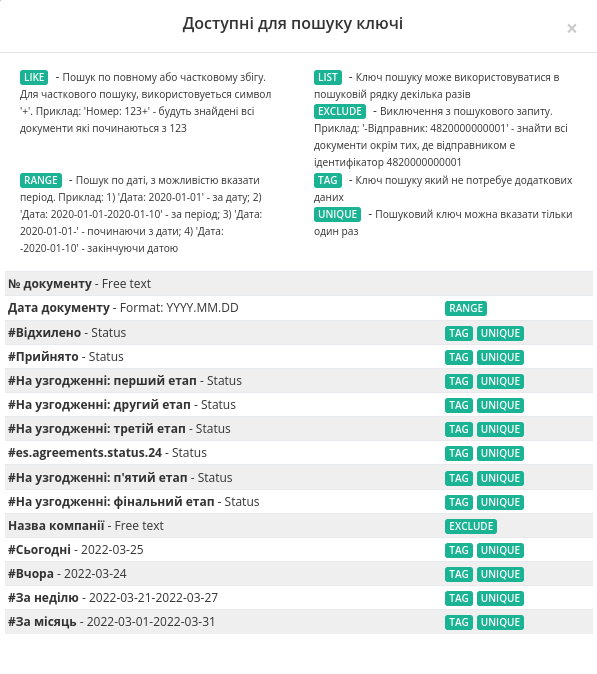
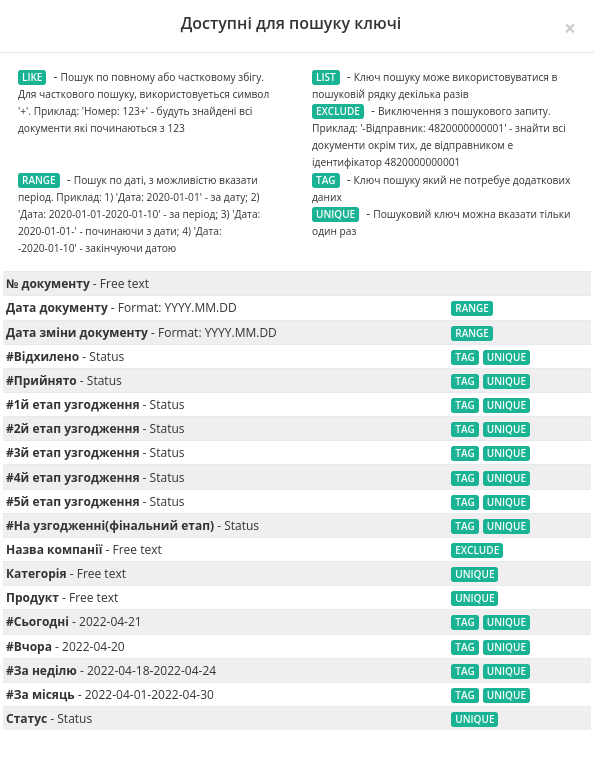
Commercial_search

diff --git a/docs/Commercial_offers/Instructions/Commercial_offers_merezha.rst b/docs/Commercial_offers/Instructions/Commercial_offers_merezha.rst
@@ -27,6 +27,8 @@
 
 .. |star| image:: pics_Commercial_offers/Commercial_offers_038.png
 
+.. |advserch| image:: pics_Commercial_offers/Commercial_offers_060.png
+
 .. role:: red
 
 .. role:: green
@@ -180,18 +182,26 @@
 **Пошук**
 ------------------------------
 
-Функціональне поле **"Пошуку"** використовує наступні Доступні для пошуку ключі:
+Пошук документів/позицій в сервісі **Комерційна пропозиція** виконується через рядок **"Пошуку"**:
+
+.. image:: pics_Commercial_offers/Commercial_offers_066.png
+   :align: center
+
+----------------------------------------------------------------------------------------------------
+
+1) Рядок пошуку можливо заповнити, обираючи **"Доступні для пошуку ключі"**:
 
 .. image:: pics_Commercial_offers/Commercial_offers_056.png
    :align: center
 
-В залежності від того, який журнал відкрито (**Документи** чи **Позиції**) ключі пошуку будуть відрізнятись:
+.. note::
+   В залежності від того, який журнал відкрито (**Документи** чи **Позиції**) ключі пошуку будуть відрізнятись:
 
-.. image:: pics_Commercial_offers/Commercial_offers_057.png
-   :width: 500
+   .. image:: pics_Commercial_offers/Commercial_offers_057.png
+      :width: 500
 
-.. image:: pics_Commercial_offers/Commercial_offers_058.png
-   :width: 500
+   .. image:: pics_Commercial_offers/Commercial_offers_058.png
+      :width: 500
 
 Можливо обрати параметр зі списку/підказки чи почати вводити пошукове значення (система автоматично вкаже на можливі параметри): 
 
@@ -205,6 +215,46 @@
 .. image:: pics_Commercial_offers/Commercial_offers_059.gif
    :align: center
 
+2) Також заповнити рядок пошуку можливо за допомогою набору фільтрів **"Розширеного пошуку"** (|advserch|):
+
+.. note::
+   В залежності від того, який журнал відкрито (**Документи** чи **Позиції**) меню пошуку буде відрізнятись:
+
+   .. image:: pics_Commercial_offers/Commercial_offers_061.png
+      :align: center
+
+            
+
+   .. image:: pics_Commercial_offers/Commercial_offers_062.png
+      :align: center
+
+Деякі поля містять підказки, що показуються при наведенні курсора на назву параметра:
+
+.. image:: pics_Commercial_offers/Commercial_offers_063.png
+   :align: center
+
+Пошук працює тільки за повним збігом.
+
+----------------------------------------------------------------------------------------------------
+
+Окремо винесені фільтри документів по даті (**"Сьогодні"**, **"Вчора"**), а останній введений пошук зберігається платформою автоматично і при натисканні кнопки **"Останній фільтр"** він виконується повторно:
+
+.. image:: pics_Commercial_offers/Commercial_offers_064.png
+   :align: center
+
+Також можливо перманентно **Зберегти** данні власного рядку пошуку, натиснувши на іконку дискети. Переглянути збережений пошук можливо в блоці **Збережений пошук**. Вилучити збережений пошук можна за допомогою хрестика.
+
+.. image:: pics_Commercial_offers/Commercial_offers_065.png
+   :align: center
+
 ----------------------------------
 
 .. include:: /_constant/kontakti.rst
+
+
+
+
+
+
+
+
